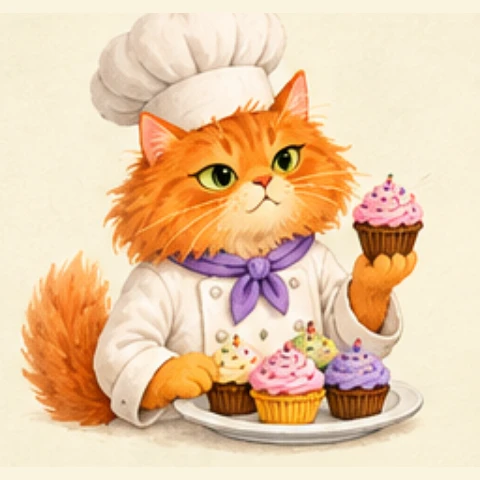
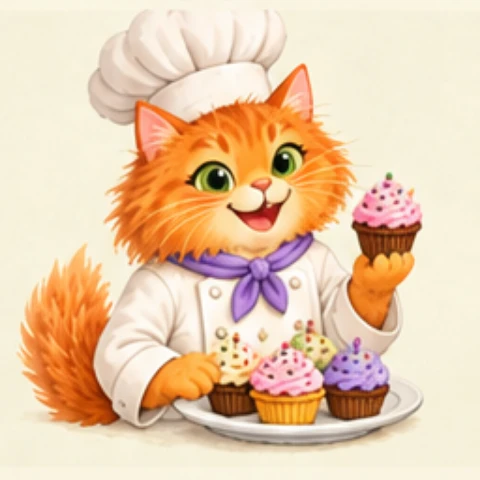
Give every cat career portrait a cheerful expression

diff --git a/README.md b/README.md
@@ -69,9 +69,10 @@ to take the quiz.
 ## Cat and dog portraits
 
 All 24 careers have a full-size storybook illustration for each animal.
-The six original box executive, snack inspector, and neighborhood lookout
-portraits are preserved as the main art for those jobs. The other 42 portraits
-were prepared in the same warm illustrated style. Selection cards show the
+The original dog executive, snack inspector, and neighborhood lookout
+portraits are preserved. All 24 cat career portraits have cheerful expressions,
+with their outfits and props retained in the same warm storybook style.
+Selection cards show the
 selected animal without clothes or job props, and
 interview mascots remain plain until the career reveal. The large welcome
 preview showcases the selected pet as Chief Cardboard Officer. Plain portraits live
@@ -83,11 +84,13 @@ No image service is called at runtime. To import reviewed four-column,
 six-row illustration sheets locally, run:
 
 ```sh
-node scripts/import-portraits.cjs path/to/cat-sheet.png path/to/dog-sheet.png
+node scripts/import-portraits.cjs path/to/cat-sheet.png path/to/dog-sheet.png path/to/happy-cat-sheet.png
 ```
 
-The importer always takes the original six portraits from `pet-careers.png`,
-not from newly generated sheets. Review every exported crop before publishing.
+The optional third sheet replaces all cat portraits using an evenly divided
+four-column, six-row grid in engine career order. Without it, the importer
+preserves the original three cat portraits. The three original dog portraits
+always come from `pet-careers.png`. Review every exported crop before publishing.
 Browser tests exercise all 72 species/career combinations on desktop and mobile.
 
 ## Privacy

diff --git a/THIRD_PARTY_NOTICES.md b/THIRD_PARTY_NOTICES.md
@@ -35,10 +35,11 @@ atlas is bundled locally; no image-generation service is called by the app.
 Nonessential embedded metadata is removed from the distributed PNG.
 
 `public/assets/pet-portraits/` contains 48 optimized WebP illustrations:
-six crops of the original cat/dog atlas and 42 newly prepared AI illustrations
-matching its warm storybook style. The original snack-inspector cat, not the
-incorrect dog cell in the newly generated cat contact sheet, is used for
-`cat-snacks.webp`. Only reviewed individual portraits are distributed; the
+three crops of the original dog atlas and 45 prepared AI illustrations
+matching its warm storybook style. All 24 cat portraits were edited to have
+cheerful expressions while retaining their career outfits and props.
+The snack inspector is an orange cat, not a dog.
+Only reviewed individual portraits are distributed; the
 generated contact sheets are not included. Re-encoding removes source metadata.
 
 `public/assets/cat.webp` and `public/assets/dog.webp` are prepared AI-generated
